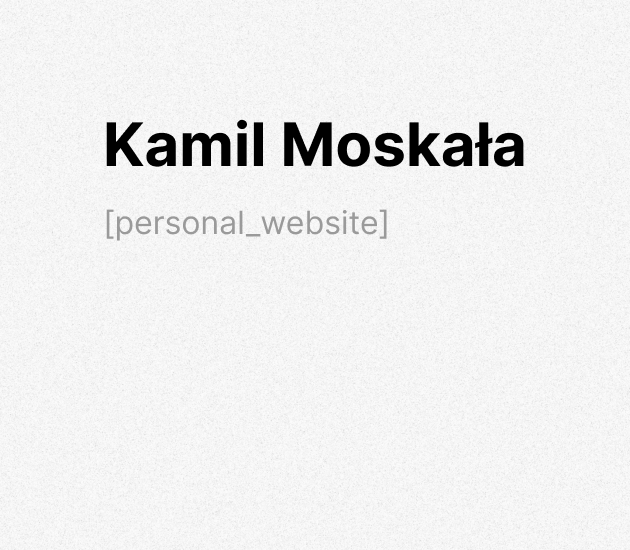
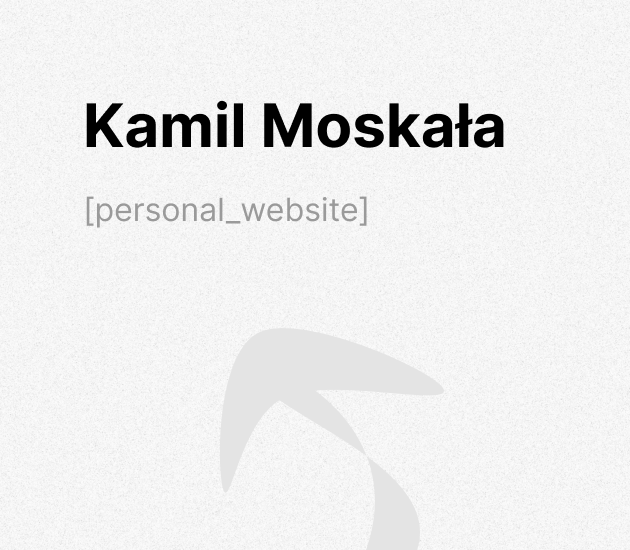
fix: og images

Changed region(s): [[0.1206, 0.1855, 0.8444, 0.3091], [0.1206, 0.34, 0.6333, 0.4327]]

diff --git a/src/app/layout.tsx b/src/app/layout.tsx
@@ -10,9 +10,27 @@ const poppins = Poppins({
   weight: ["400", "500", "700"],
 });
 
+const description = "16 yo React/React Native Developer - Personal Website";
+
 export const metadata: Metadata = {
+  metadataBase: new URL("https://www.moskalakamil.com"),
   title: "Kamil Moskala",
-  description: "16 yo React/React Native Developer - Personal Website",
+  description,
+  openGraph: {
+    title: "Kamil Moskala",
+    description,
+    url: "https://www.moskalakamil.com",
+    siteName: "Kamil Moskala",
+    locale: "en_US",
+    type: "website",
+    images: ["https://www.moskalakamil.com/opengraph-image.png"],
+  },
+  twitter: {
+    title: "Kamil Moskala",
+    card: "summary_large_image",
+    description,
+    images: ["https://www.moskalakamil.com/twitter-image.png"],
+  },
 };
 
 export default function RootLayout({
